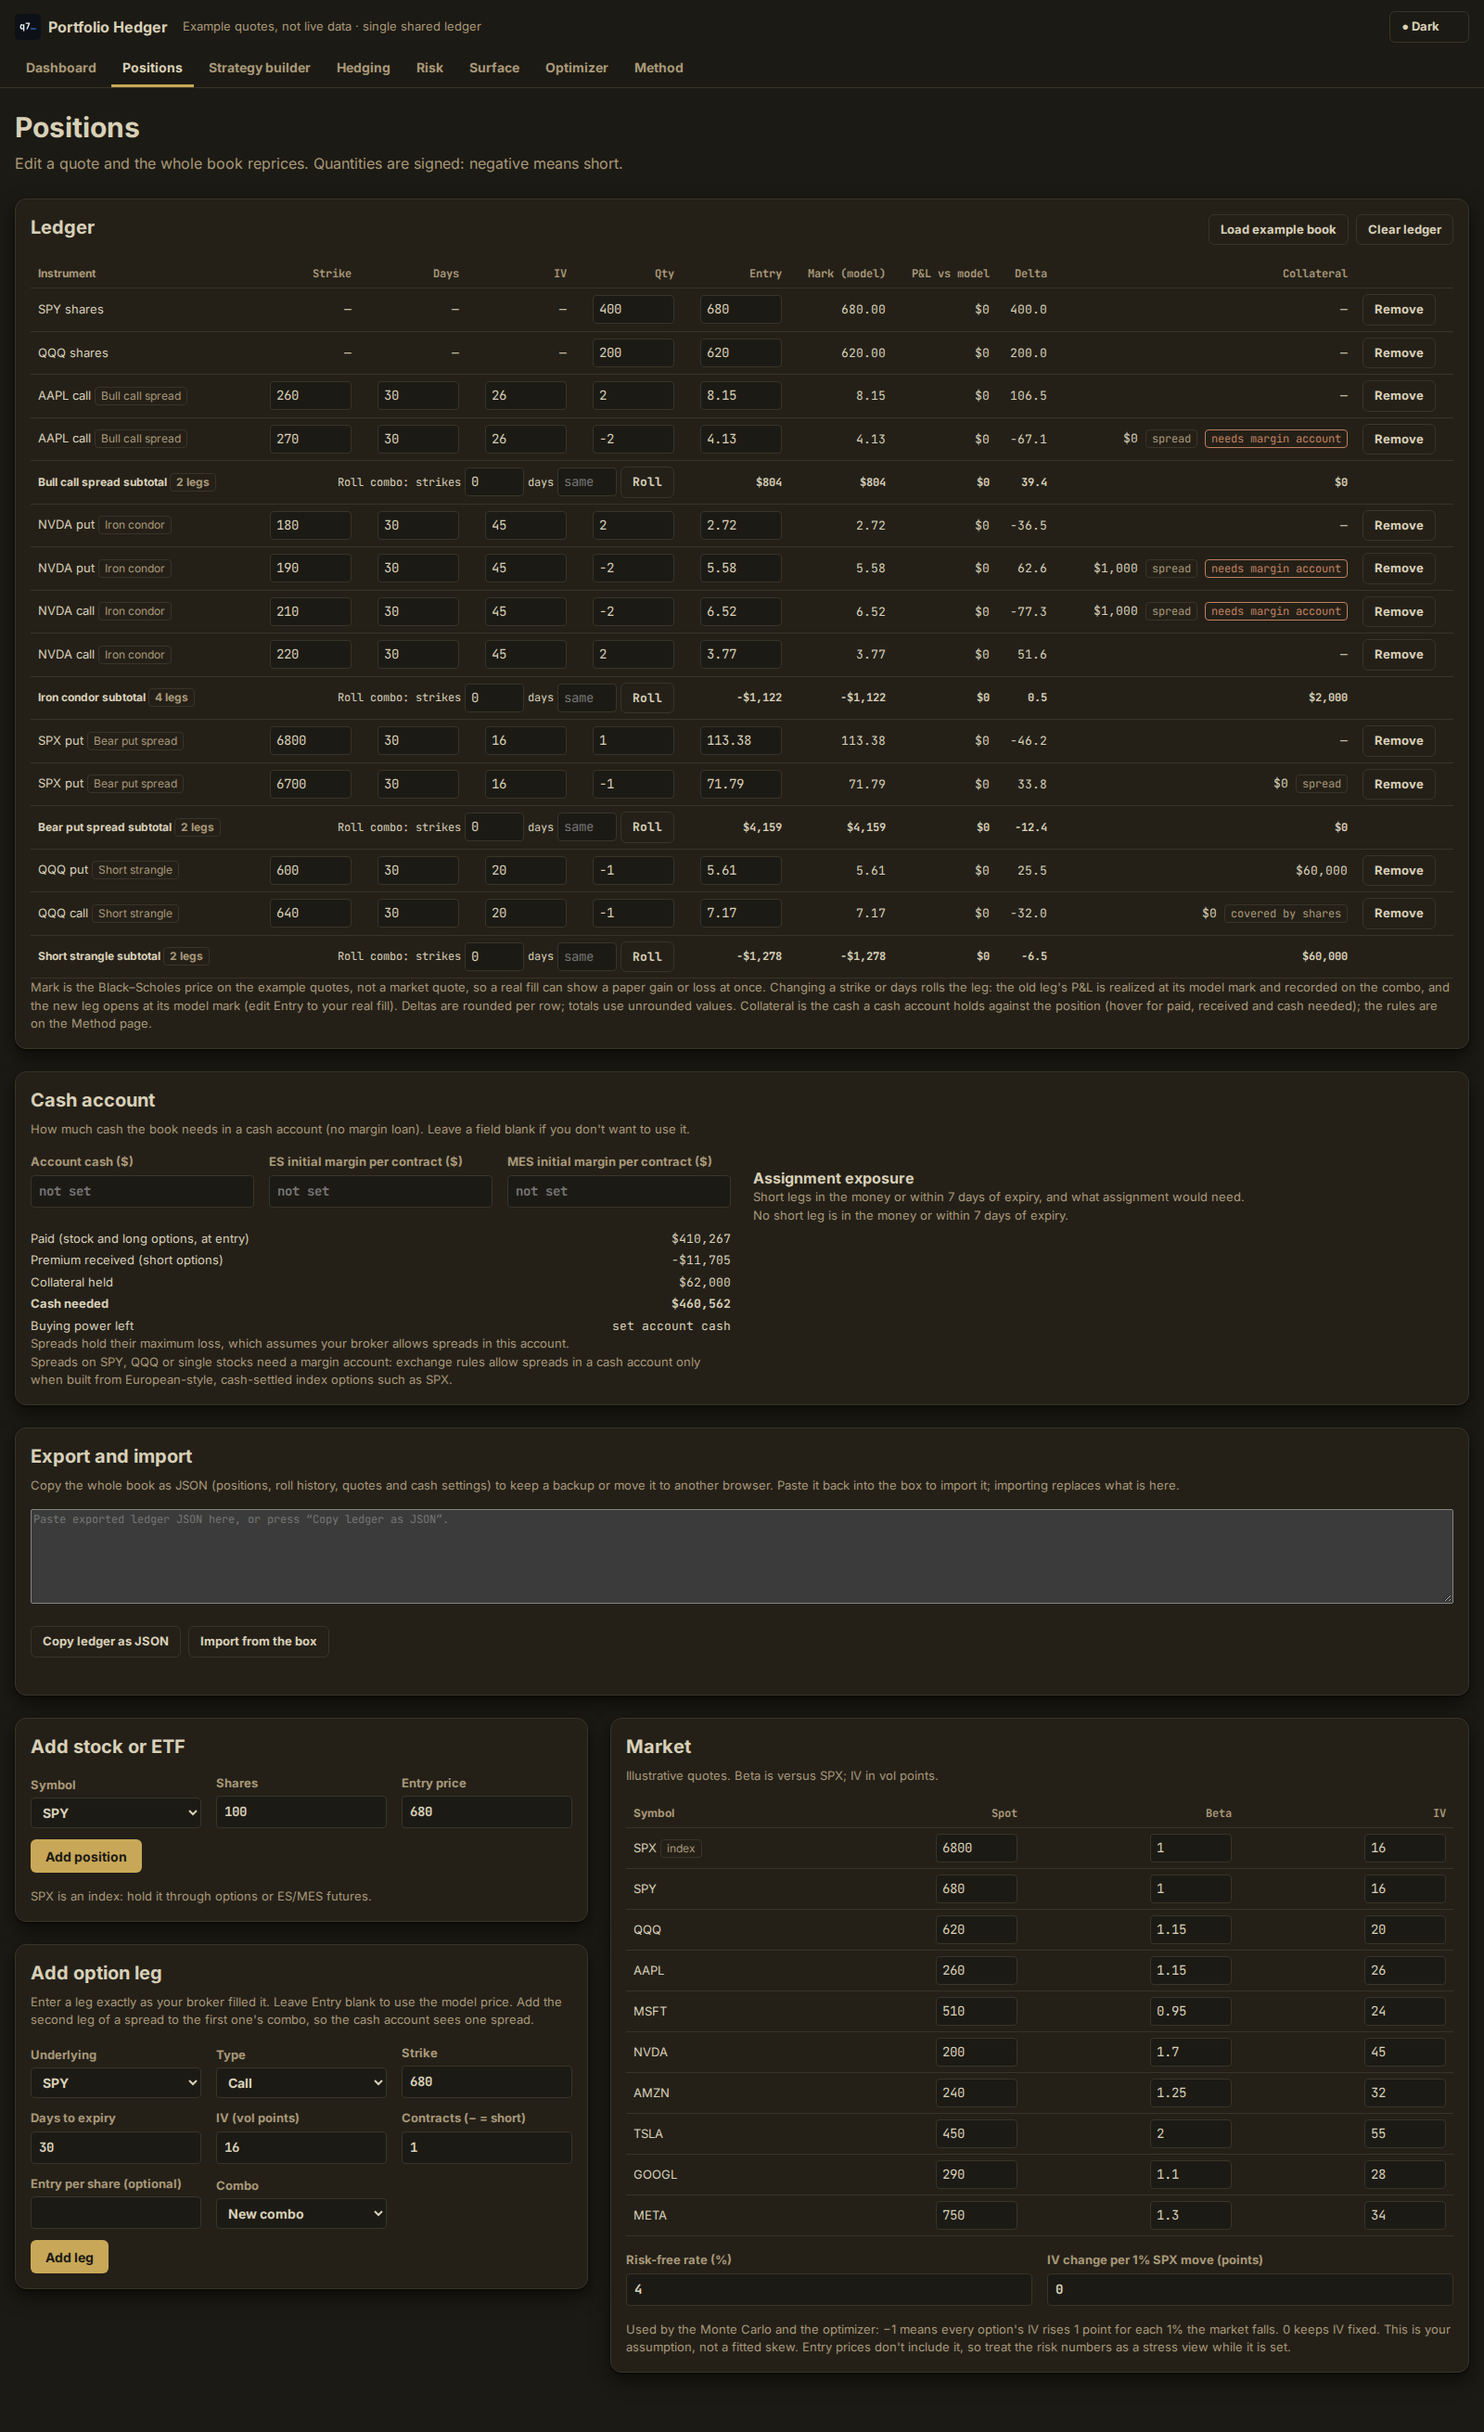
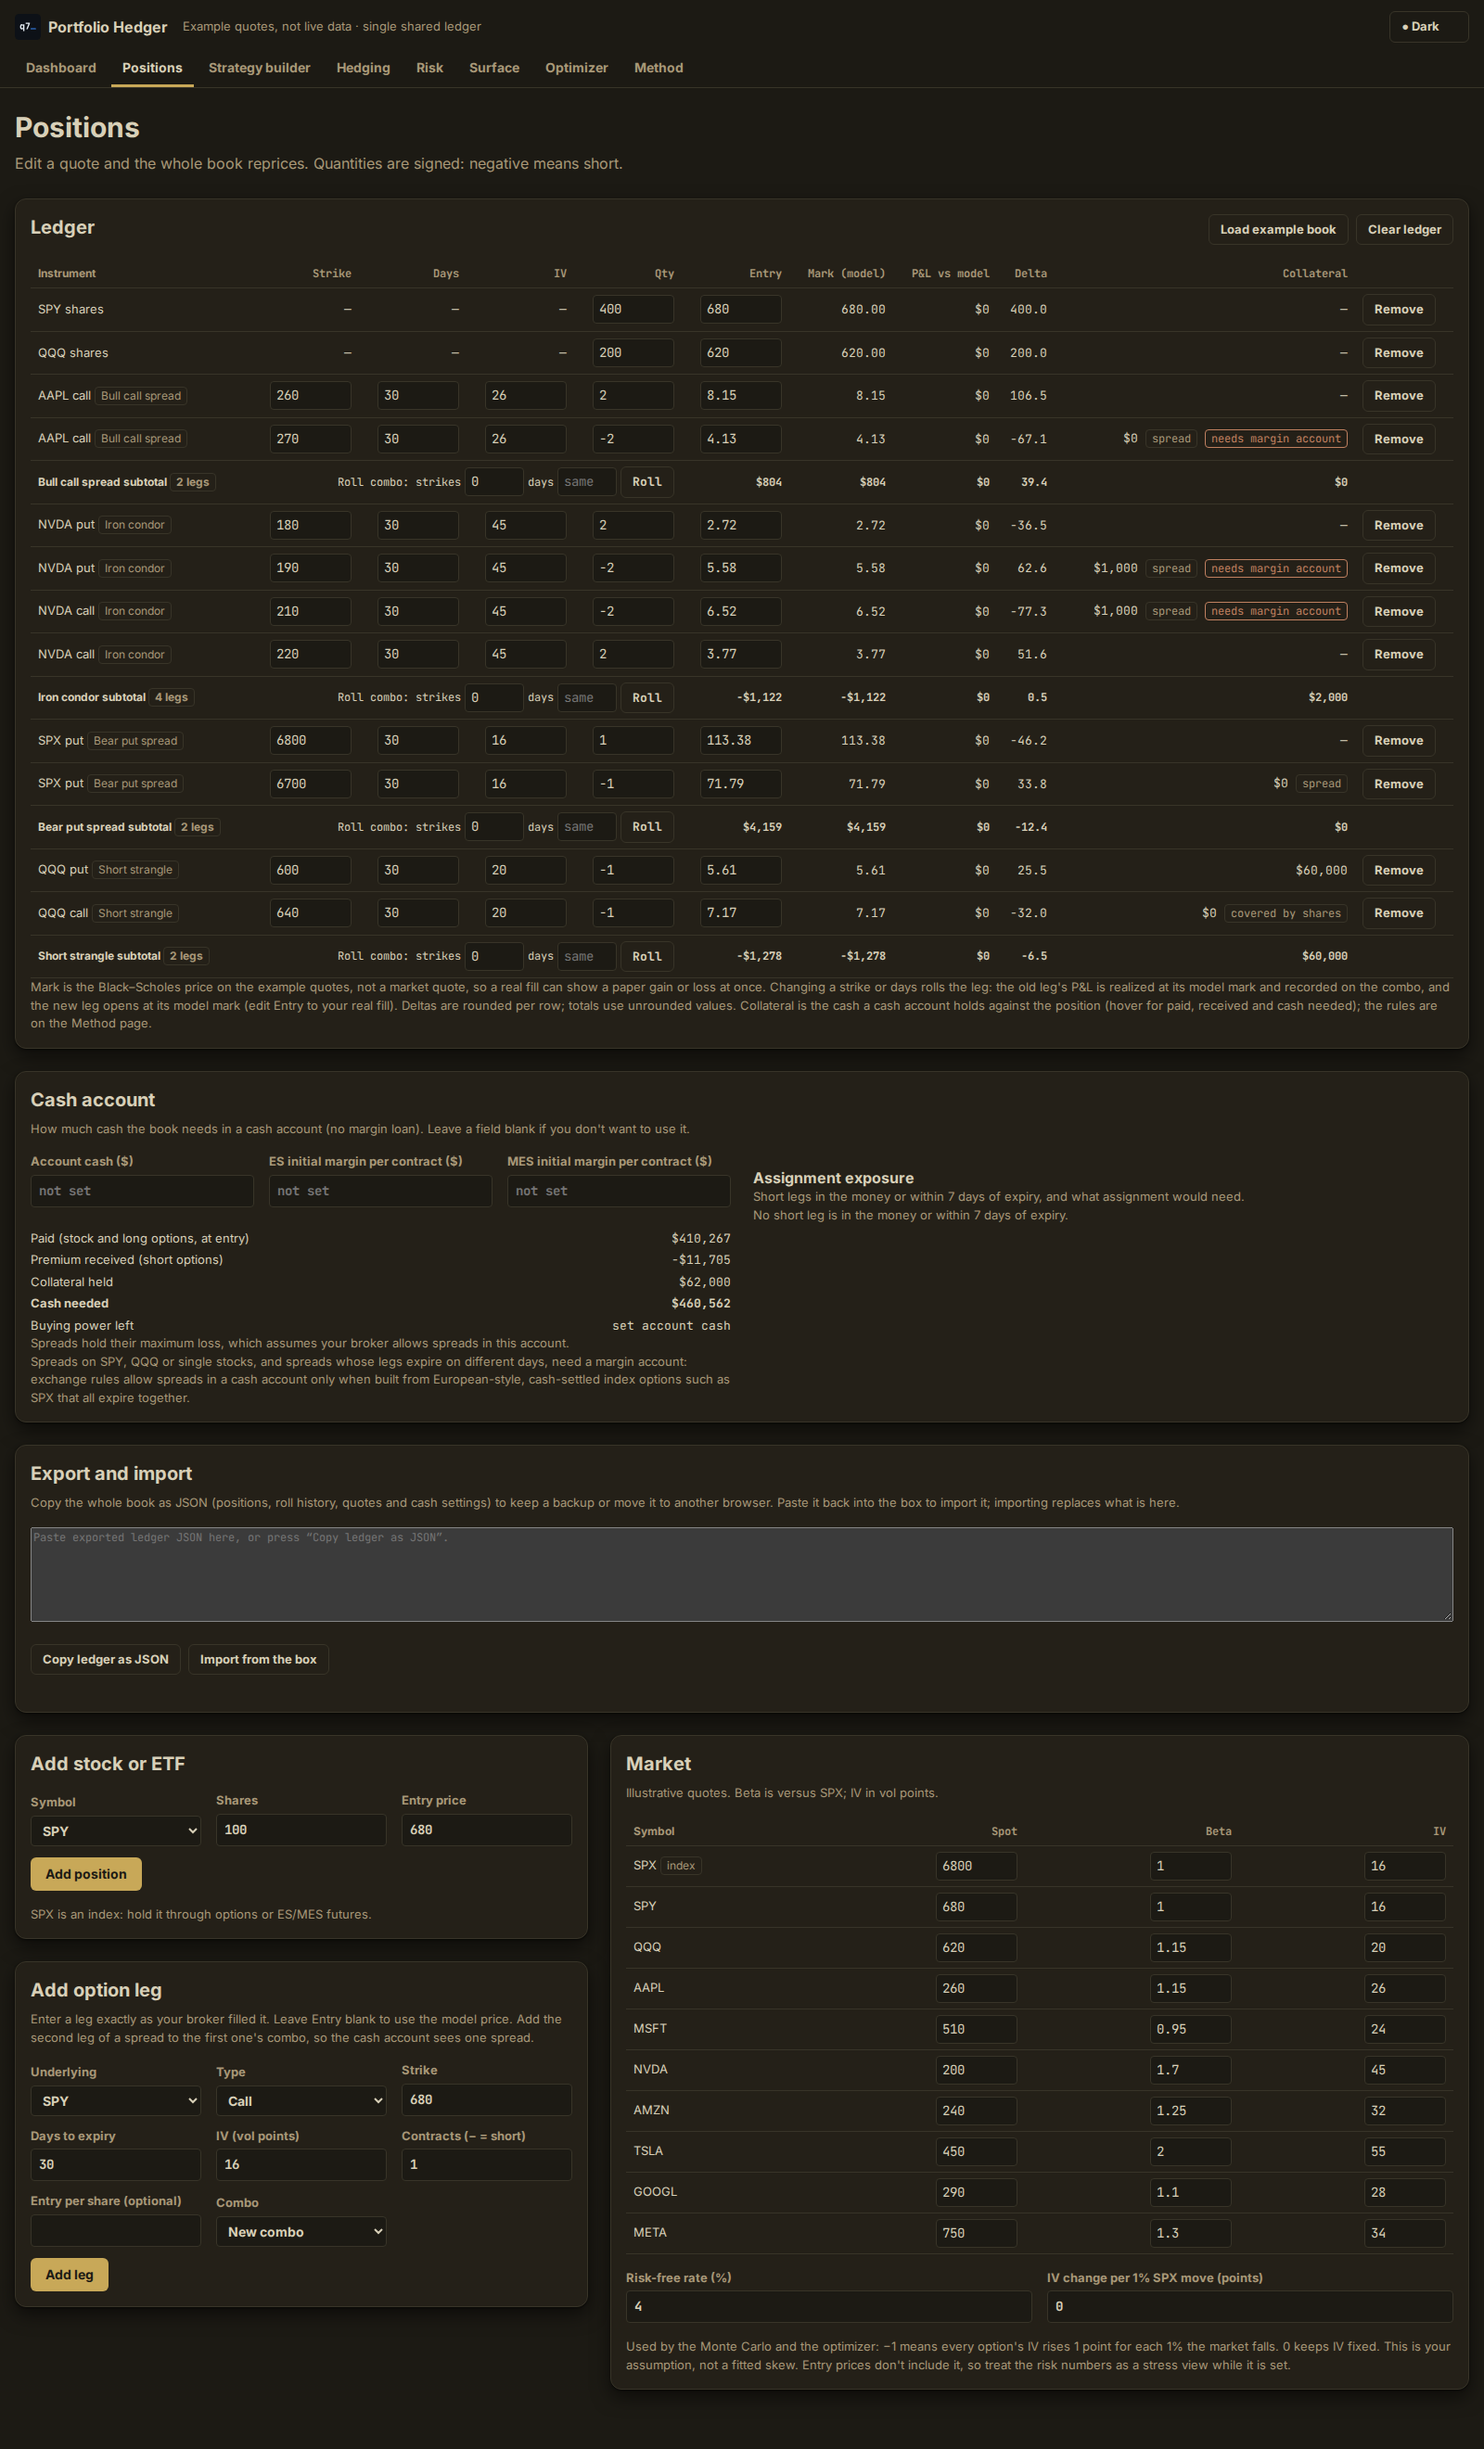
docs: README screenshots with the new brand colours
Retaken from the live site with scripts/screenshots.py after #29 deployed.
Plan 0005 row 2.

diff --git a/docs/plans/2026-11-23-0005-portfolio-hedger-brand-colours.md b/docs/plans/2026-11-23-0005-portfolio-hedger-brand-colours.md
@@ -15,8 +15,8 @@
   Chromium crashed twice ("Target crashed", "Page crashed") with about 1.3 GB of memory free on the dev machine; CI's
   e2e on #29 and the local e2e on the built `dist/` passed. The artifact copy could not be republished: its link was
   deleted or lost write access (row 4).
-- **Next, in order:** when the machine has memory to spare, run `URL=https://hedger.abizz.dev make e2e`, then row 2
-  (it photographs the live site). Row 4 waits for the owner.
+- **Next:** rows 1-3 are done; row 1's live e2e passed on 2026-11-25 once memory was free. Row 4 waits for the
+  owner.
 - **Loop per item:** [CONTRIBUTING.md](../../CONTRIBUTING.md#workflow). `make validate` before every push; `make e2e`
   for UI changes. After a merge that changes `public/`: `make deploy` from a clean `main`, check the live site with
   `URL=https://hedger.abizz.dev make e2e`, republish the artifact from `public/`. Strike the row in the PR that
@@ -53,6 +53,6 @@ The only list of open work in this plan. Strike a row in the PR that ships it.
 | # | Item | Gate | Done when | State |
 |---|---|---|---|---|
 | 1 | ~~Brand chart colours (plan 0004 row 6)~~ | agent | `make vendor` from qte77/qte77 `main`; `VENDOR.txt` names that commit; `make validate` and `make e2e` pass; gains, losses and warnings checked in both themes in the screenshots; then deployed, live e2e passes, artifact republished | shipped (#29); vendored from qte77/qte77 1cf2918 |
-| 2 | README screenshots show the new colours | agent | after row 1 is live: `scripts/screenshots.py` retaken into `assets/screenshots/`, images looked at | open |
+| 2 | ~~README screenshots show the new colours~~ | agent | after row 1 is live: `scripts/screenshots.py` retaken into `assets/screenshots/`, images looked at | shipped (#PR) |
 | 3 | ~~Hedge policy (#5, advisory; plan 0004 row 7)~~ | owner | validated first (a persona re-run against #5's criteria, or real adviser feedback); then the owner picks which parts to build | dropped (owner default, 2026-11-25): an adviser feature, and the target is retail traders (#21); #5 closed as not planned, reopen on a real request |
 | 4 | claude.ai artifact copy | owner | the owner chooses: publish a new copy at a new link (and update the links in the docs), or drop the copy and its republish step from AGENTS.md, CONTRIBUTING.md, `scripts/build.mjs` and this plan | deferred (owner, 2026-11-23): the v24 link was deleted or lost write access when v25 was published |
